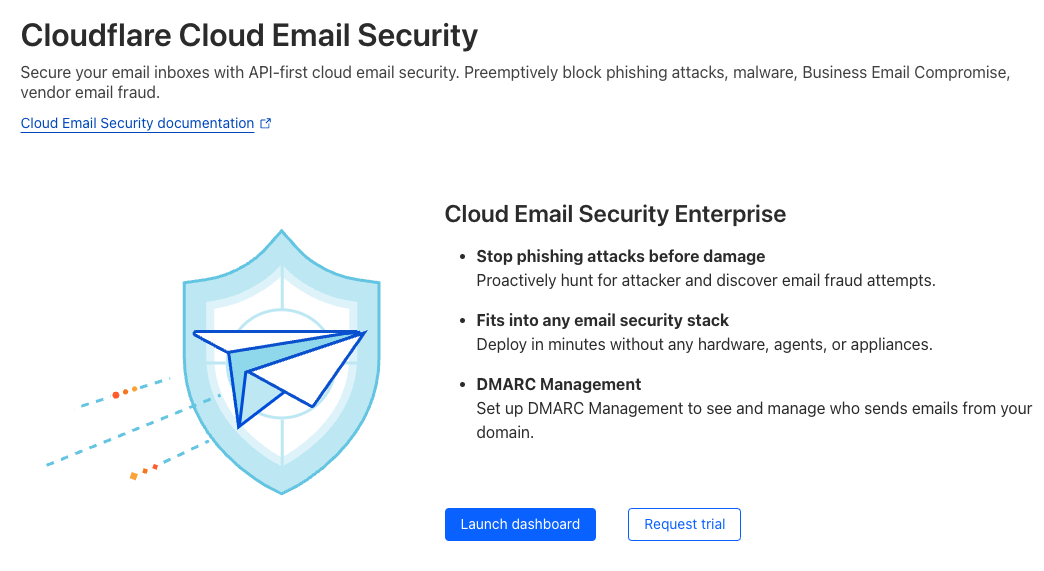
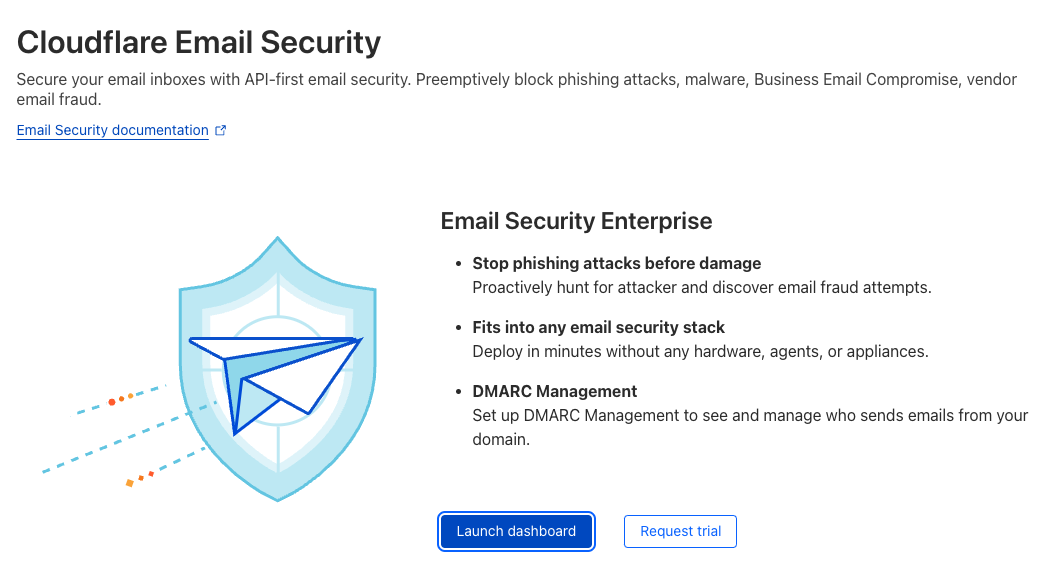
[ES] Rename product (#15905)

diff --git a/content/email-security/account-setup/connect-cloudflare-account.md b/content/email-security/account-setup/connect-cloudflare-account.md
@@ -6,9 +6,9 @@ weight: 6
 
 # Connect a Cloudflare account
 
-Existing Cloud Email Security (formerly Area 1) users must connect a Cloudflare account to access the new Zero Trust Cloud Email Security product.
+Existing Email Security (formerly Area 1) users must connect a Cloudflare account to access the new Zero Trust Email Security product.
 
-You can connect a Cloudflare account from the Cloudflare dashboard or from the Cloud Email Security (formerly Area 1) login page.
+You can connect a Cloudflare account from the Cloudflare dashboard or from the Email Security (formerly Area 1) login page.
 
 ## Connect account from the dashboard
 
@@ -16,7 +16,7 @@ To connect a Cloudflare account from the dashboard:
 
 1. Log in to the [Cloudflare dashboard](https://dash.cloudflare.com/).
 
-2. On the side bar, select **Cloud Email Security**.
+2. On the side bar, select **Email Security**.
 
 3. Select **Launch dashboard**.
 
@@ -25,7 +25,7 @@ To connect a Cloudflare account from the dashboard:
     ![Launch dashboard button](/images/email-security/sso/generic/launch-dashboard.png)
 
     </div>
-4. Select **Allow** to enable Cloud Email Security to make changes to your Cloudflare account.
+4. Select **Allow** to enable Email Security to make changes to your Cloudflare account.
     
     <div class="full-img">
     
@@ -33,11 +33,11 @@ To connect a Cloudflare account from the dashboard:
     
     </div>
 
-5. After selecting **Allow**, log in to Cloud Email Security.
+5. After selecting **Allow**, log in to Email Security.
 
 6. From here, you can either log in via [Cloudflare's Single Sign-on](https://horizon.area1security.com/), or via the **Launch dashboard** button.
 
-## Connect account from Cloud Email Security (formerly Area 1)
+## Connect account from Email Security (formerly Area 1)
 
 1. On the [Sign In page](https://horizon.area1security.com/users/login), select **Sign in with Cloudflare**.
 
@@ -49,7 +49,7 @@ To connect a Cloudflare account from the dashboard:
 
 2. Log in using Cloudflare's credentials.
 
-3. Select **Allow** to enable Cloud Email Security to make changes to your Cloudflare account.
+3. Select **Allow** to enable Email Security to make changes to your Cloudflare account.
     
     <div class="full-img">
     
